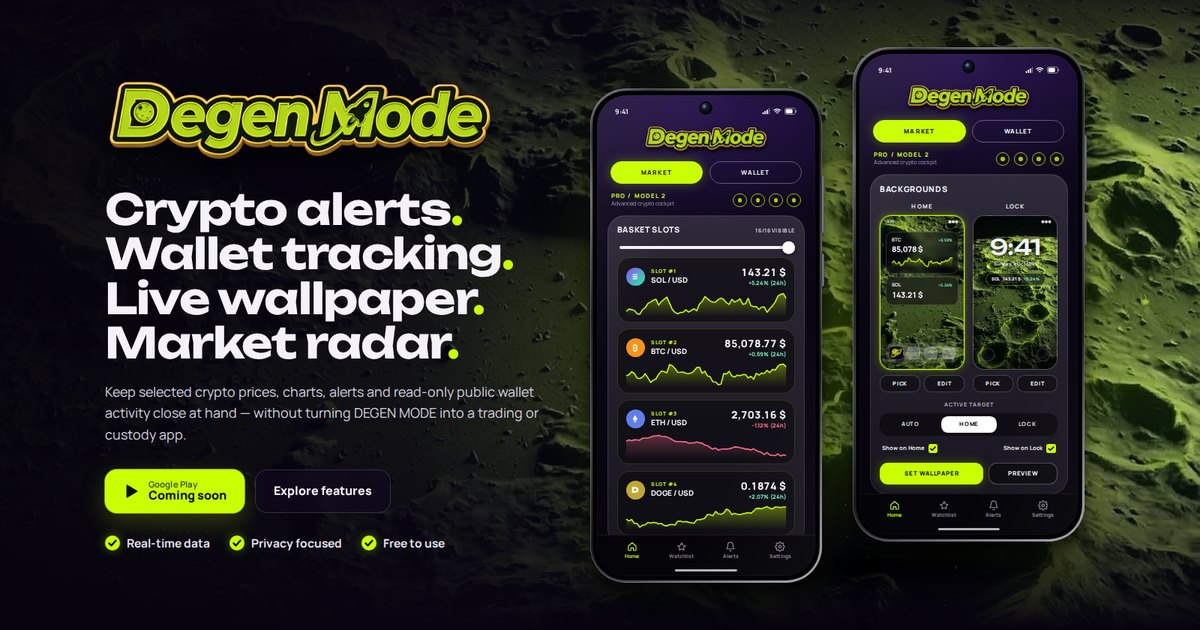
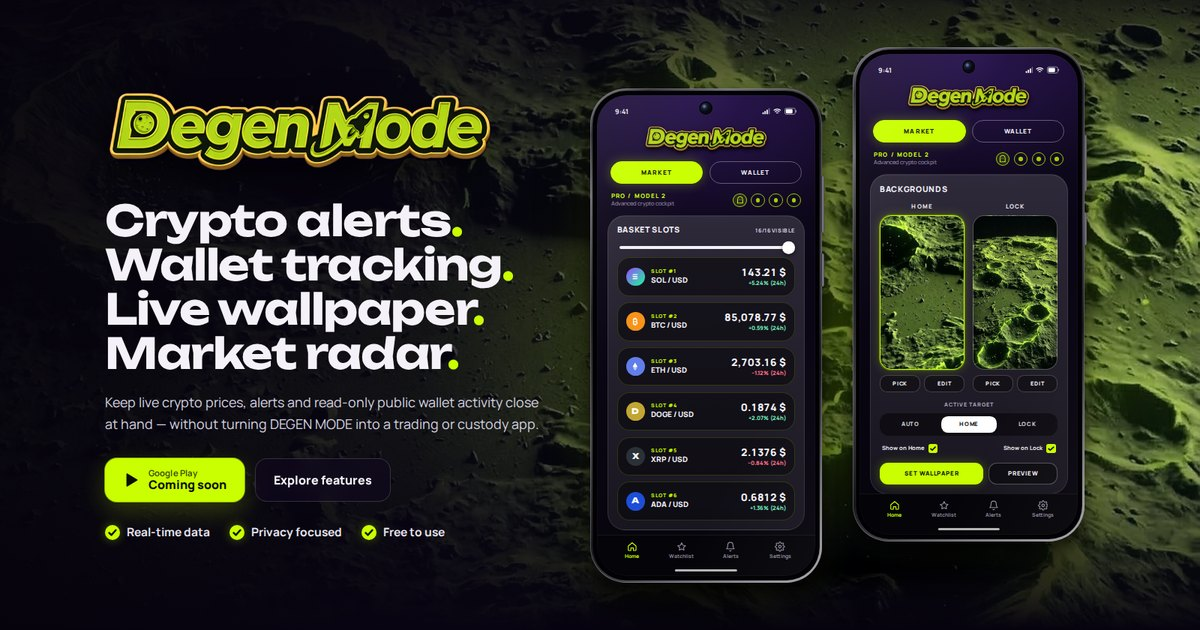
Add files via upload

diff --git a/index.html b/index.html
@@ -4,7 +4,7 @@
 <meta charset="utf-8">
 <meta name="viewport" content="width=device-width,initial-scale=1,viewport-fit=cover">
 <title>DEGEN MODE — Crypto alerts, wallet tracking and live wallpaper for Android</title>
-<meta name="description" content="DEGEN MODE puts selected crypto prices, charts, price alerts and read-only public wallet activity on your Android home and lock screen. No ads, no tracking.">
+<meta name="description" content="DEGEN MODE puts live crypto prices, price alerts and read-only public wallet activity on your Android home and lock screen. No ads, no tracking.">
 <meta name="theme-color" content="#06030d">
 <meta name="color-scheme" content="dark">
 <meta property="og:type" content="website">
@@ -24,14 +24,6 @@
 </head>
 <body>
 <a class="skip" href="#main">Skip to content</a>
-
-<!-- shared SVG gradients for charts -->
-<svg width="0" height="0" style="position:absolute" aria-hidden="true" focusable="false">
-  <defs>
-    <linearGradient id="gUp" x1="0" y1="0" x2="0" y2="1"><stop offset="0" stop-color="#c9ff00" stop-opacity=".38"/><stop offset="1" stop-color="#c9ff00" stop-opacity="0"/></linearGradient>
-    <linearGradient id="gDown" x1="0" y1="0" x2="0" y2="1"><stop offset="0" stop-color="#ff6f8e" stop-opacity=".32"/><stop offset="1" stop-color="#ff6f8e" stop-opacity="0"/></linearGradient>
-  </defs>
-</svg>
 
 <header class="site-header">
   <div class="wrap nav">
@@ -56,7 +48,7 @@
     <div class="hero-copy">
       <img class="hero-wordmark" src="degenmode-wordmark.webp" srcset="degenmode-wordmark-820.webp 820w, degenmode-wordmark.webp 1647w" sizes="(max-width:600px) 90vw, 520px" width="1647" height="375" alt="DEGEN MODE" fetchpriority="high">
       <h1 class="headline"><span>Crypto alerts<i>.</i></span><span>Wallet tracking<i>.</i></span><span>Live wallpaper<i>.</i></span><span>Market radar<i>.</i></span></h1>
-      <p class="lede">Keep selected crypto prices, charts, alerts and read-only public wallet activity close at hand — without turning DEGEN MODE into a trading or custody app.</p>
+      <p class="lede">Keep live crypto prices, alerts and read-only public wallet activity close at hand — without turning DEGEN MODE into a trading or custody app.</p>
       <div class="cta">
         <span class="btn btn-play" role="note" aria-label="Google Play — coming soon"><svg viewBox="0 0 24 24" aria-hidden="true"><path d="M5 3.6v16.8c0 .8.9 1.3 1.6.9l14-8.4c.7-.4.7-1.4 0-1.8l-14-8.4C5.9 2.3 5 2.8 5 3.6z" fill="currentColor"/></svg><span><small>Google Play</small>Coming soon</span></span>
         <a class="btn btn-ghost" href="#features">Explore features</a>
@@ -72,14 +64,14 @@
       <div class="stage">
 
         <!-- Phone A: basket slots -->
-        <div class="phone phone--a" role="img" aria-label="DEGEN MODE app showing basket slots with SOL, BTC and ETH prices and charts">
+        <div class="phone phone--a" role="img" aria-label="DEGEN MODE app showing basket slots with live SOL, BTC, ETH, DOGE, XRP and ADA prices">
           <span class="hw hw-vol"></span><span class="hw hw-pwr"></span>
           <div class="screen" aria-hidden="true">
             <div class="statusbar"><span>9:41</span><span class="cam"></span><span class="sb-icons"><svg viewBox="0 0 16 16" fill="#fff"><rect x="1" y="10" width="2.6" height="4" rx=".6"/><rect x="5" y="7.5" width="2.6" height="6.5" rx=".6"/><rect x="9" y="5" width="2.6" height="9" rx=".6"/><rect x="13" y="2" width="2.6" height="12" rx=".6" opacity=".4"/></svg><svg viewBox="0 0 16 16" fill="none" stroke="#fff" stroke-width="1.8" stroke-linecap="round"><path d="M1.5 6a9.5 9.5 0 0 1 13 0M4 8.8a6 6 0 0 1 8 0M6.5 11.5a2.4 2.4 0 0 1 3 0"/></svg><svg class="bat" viewBox="0 0 24 14"><rect x=".8" y="1" width="20" height="12" rx="3" fill="none" stroke="#fff" stroke-opacity=".55" stroke-width="1.4"/><rect x="2.6" y="2.8" width="13" height="8.4" rx="1.6" fill="#fff"/><rect x="21.6" y="4.6" width="1.8" height="4.8" rx=".9" fill="#fff" fill-opacity=".55"/></svg></span></div>
             <div class="app-top">
               <img class="app-wm" src="degenmode-wordmark-820.webp" alt="">
               <div class="seg"><span class="on">Market</span><span>Wallet</span></div>
-              <div class="pro"><div><b>PRO / MODEL 2</b><small>Advanced crypto cockpit</small></div><div class="dots"><i></i><i></i><i></i><i></i></div></div>
+              <div class="pro"><div><b>PRO / MODEL 2</b><small>Advanced crypto cockpit</small></div><div class="dots"><i class="g"><svg viewBox="0 0 24 24" fill="none" stroke="currentColor" stroke-width="2" stroke-linejoin="round"><path d="M12 2.5a7 7 0 0 0-7 7v11.3l2.3-1.6 2.4 1.6 2.3-1.6 2.3 1.6 2.4-1.6 2.3 1.6V9.5a7 7 0 0 0-7-7z"/><circle cx="9.6" cy="10.2" r="1.2" fill="currentColor" stroke="none"/><circle cx="14.4" cy="10.2" r="1.2" fill="currentColor" stroke="none"/></svg></i><i></i><i></i><i></i></div></div>
             </div>
             <div class="panel">
               <div class="panel-h"><b>Basket slots</b><small>16/16 visible</small></div>
@@ -91,7 +83,6 @@
                   <div class="slot-id"><small>Slot #1</small><b>SOL / USD</b></div>
                   <div class="slot-px"><b>143.21 $</b><small class="up">+5.24% (24h)</small></div>
                 </div>
-                <svg class="spark" viewBox="0 0 100 30" preserveAspectRatio="none"><path d="M0.0,23.8 L1.7,21.1 L3.4,21.7 L5.1,22.7 L6.8,26.5 L8.5,27.0 L10.2,21.7 L11.9,19.4 L13.6,14.4 L15.3,12.8 L16.9,10.7 L18.6,9.5 L20.3,16.5 L22.0,12.3 L23.7,9.6 L25.4,7.0 L27.1,14.1 L28.8,21.5 L30.5,25.0 L32.2,26.7 L33.9,25.0 L35.6,24.8 L37.3,22.0 L39.0,24.5 L40.7,22.7 L42.4,20.6 L44.1,23.1 L45.8,15.1 L47.5,12.2 L49.2,6.5 L50.8,8.8 L52.5,11.7 L54.2,12.9 L55.9,12.9 L57.6,9.7 L59.3,8.2 L61.0,9.8 L62.7,13.7 L64.4,15.6 L66.1,9.7 L67.8,12.9 L69.5,11.4 L71.2,9.1 L72.9,15.4 L74.6,14.8 L76.3,8.5 L78.0,17.1 L79.7,18.1 L81.4,18.2 L83.1,21.4 L84.7,18.8 L86.4,18.7 L88.1,24.8 L89.8,20.7 L91.5,17.4 L93.2,12.8 L94.9,5.9 L96.6,3.9 L98.3,3.0 L100.0,8.4 L100,30 L0,30 Z" fill="url(#gUp)"/><path d="M0.0,23.8 L1.7,21.1 L3.4,21.7 L5.1,22.7 L6.8,26.5 L8.5,27.0 L10.2,21.7 L11.9,19.4 L13.6,14.4 L15.3,12.8 L16.9,10.7 L18.6,9.5 L20.3,16.5 L22.0,12.3 L23.7,9.6 L25.4,7.0 L27.1,14.1 L28.8,21.5 L30.5,25.0 L32.2,26.7 L33.9,25.0 L35.6,24.8 L37.3,22.0 L39.0,24.5 L40.7,22.7 L42.4,20.6 L44.1,23.1 L45.8,15.1 L47.5,12.2 L49.2,6.5 L50.8,8.8 L52.5,11.7 L54.2,12.9 L55.9,12.9 L57.6,9.7 L59.3,8.2 L61.0,9.8 L62.7,13.7 L64.4,15.6 L66.1,9.7 L67.8,12.9 L69.5,11.4 L71.2,9.1 L72.9,15.4 L74.6,14.8 L76.3,8.5 L78.0,17.1 L79.7,18.1 L81.4,18.2 L83.1,21.4 L84.7,18.8 L86.4,18.7 L88.1,24.8 L89.8,20.7 L91.5,17.4 L93.2,12.8 L94.9,5.9 L96.6,3.9 L98.3,3.0 L100.0,8.4" fill="none" stroke="#c9ff00" stroke-width="1.6" stroke-linejoin="round" vector-effect="non-scaling-stroke"/></svg>
               </div>
 
               <div class="slot">
@@ -100,7 +91,6 @@
                   <div class="slot-id"><small>Slot #2</small><b>BTC / USD</b></div>
                   <div class="slot-px"><b>85,078.77 $</b><small class="up">+0.59% (24h)</small></div>
                 </div>
-                <svg class="spark" viewBox="0 0 100 30" preserveAspectRatio="none"><path d="M0.0,16.6 L1.7,15.4 L3.4,11.8 L5.1,14.0 L6.8,19.3 L8.5,19.8 L10.2,18.2 L11.9,14.3 L13.6,19.1 L15.3,24.3 L16.9,21.8 L18.6,20.3 L20.3,14.7 L22.0,11.2 L23.7,11.8 L25.4,13.1 L27.1,3.5 L28.8,4.8 L30.5,8.1 L32.2,12.7 L33.9,12.5 L35.6,12.2 L37.3,13.8 L39.0,14.2 L40.7,13.4 L42.4,11.0 L44.1,7.1 L45.8,6.5 L47.5,13.6 L49.2,11.2 L50.8,16.8 L52.5,17.7 L54.2,23.6 L55.9,23.8 L57.6,27.0 L59.3,26.4 L61.0,14.1 L62.7,14.5 L64.4,11.5 L66.1,16.8 L67.8,18.1 L69.5,15.9 L71.2,16.5 L72.9,15.3 L74.6,15.1 L76.3,19.2 L78.0,17.3 L79.7,20.6 L81.4,13.7 L83.1,15.9 L84.7,13.5 L86.4,13.7 L88.1,10.3 L89.8,12.9 L91.5,9.3 L93.2,10.0 L94.9,5.4 L96.6,3.3 L98.3,3.0 L100.0,6.2 L100,30 L0,30 Z" fill="url(#gUp)"/><path d="M0.0,16.6 L1.7,15.4 L3.4,11.8 L5.1,14.0 L6.8,19.3 L8.5,19.8 L10.2,18.2 L11.9,14.3 L13.6,19.1 L15.3,24.3 L16.9,21.8 L18.6,20.3 L20.3,14.7 L22.0,11.2 L23.7,11.8 L25.4,13.1 L27.1,3.5 L28.8,4.8 L30.5,8.1 L32.2,12.7 L33.9,12.5 L35.6,12.2 L37.3,13.8 L39.0,14.2 L40.7,13.4 L42.4,11.0 L44.1,7.1 L45.8,6.5 L47.5,13.6 L49.2,11.2 L50.8,16.8 L52.5,17.7 L54.2,23.6 L55.9,23.8 L57.6,27.0 L59.3,26.4 L61.0,14.1 L62.7,14.5 L64.4,11.5 L66.1,16.8 L67.8,18.1 L69.5,15.9 L71.2,16.5 L72.9,15.3 L74.6,15.1 L76.3,19.2 L78.0,17.3 L79.7,20.6 L81.4,13.7 L83.1,15.9 L84.7,13.5 L86.4,13.7 L88.1,10.3 L89.8,12.9 L91.5,9.3 L93.2,10.0 L94.9,5.4 L96.6,3.3 L98.3,3.0 L100.0,6.2" fill="none" stroke="#c9ff00" stroke-width="1.6" stroke-linejoin="round" vector-effect="non-scaling-stroke"/></svg>
               </div>
 
               <div class="slot">
@@ -109,7 +99,6 @@
                   <div class="slot-id"><small>Slot #3</small><b>ETH / USD</b></div>
                   <div class="slot-px"><b>2,703.16 $</b><small class="down">−1.12% (24h)</small></div>
                 </div>
-                <svg class="spark" viewBox="0 0 100 30" preserveAspectRatio="none"><path d="M0.0,9.8 L1.7,8.3 L3.4,9.3 L5.1,8.1 L6.8,8.3 L8.5,8.6 L10.2,6.3 L11.9,6.1 L13.6,6.1 L15.3,5.1 L16.9,3.8 L18.6,3.7 L20.3,3.0 L22.0,4.1 L23.7,4.4 L25.4,4.9 L27.1,6.4 L28.8,8.1 L30.5,9.9 L32.2,10.2 L33.9,10.3 L35.6,10.6 L37.3,10.5 L39.0,12.0 L40.7,12.0 L42.4,11.7 L44.1,10.7 L45.8,11.7 L47.5,12.1 L49.2,14.4 L50.8,14.9 L52.5,17.4 L54.2,19.0 L55.9,17.7 L57.6,20.2 L59.3,19.2 L61.0,18.8 L62.7,19.1 L64.4,18.5 L66.1,17.8 L67.8,16.5 L69.5,16.7 L71.2,17.4 L72.9,18.0 L74.6,19.1 L76.3,19.1 L78.0,20.0 L79.7,18.6 L81.4,20.8 L83.1,22.0 L84.7,23.0 L86.4,25.4 L88.1,23.1 L89.8,25.9 L91.5,26.2 L93.2,26.7 L94.9,24.7 L96.6,27.0 L98.3,25.7 L100.0,26.5 L100,30 L0,30 Z" fill="url(#gDown)"/><path d="M0.0,9.8 L1.7,8.3 L3.4,9.3 L5.1,8.1 L6.8,8.3 L8.5,8.6 L10.2,6.3 L11.9,6.1 L13.6,6.1 L15.3,5.1 L16.9,3.8 L18.6,3.7 L20.3,3.0 L22.0,4.1 L23.7,4.4 L25.4,4.9 L27.1,6.4 L28.8,8.1 L30.5,9.9 L32.2,10.2 L33.9,10.3 L35.6,10.6 L37.3,10.5 L39.0,12.0 L40.7,12.0 L42.4,11.7 L44.1,10.7 L45.8,11.7 L47.5,12.1 L49.2,14.4 L50.8,14.9 L52.5,17.4 L54.2,19.0 L55.9,17.7 L57.6,20.2 L59.3,19.2 L61.0,18.8 L62.7,19.1 L64.4,18.5 L66.1,17.8 L67.8,16.5 L69.5,16.7 L71.2,17.4 L72.9,18.0 L74.6,19.1 L76.3,19.1 L78.0,20.0 L79.7,18.6 L81.4,20.8 L83.1,22.0 L84.7,23.0 L86.4,25.4 L88.1,23.1 L89.8,25.9 L91.5,26.2 L93.2,26.7 L94.9,24.7 L96.6,27.0 L98.3,25.7 L100.0,26.5" fill="none" stroke="#ff6f8e" stroke-width="1.6" stroke-linejoin="round" vector-effect="non-scaling-stroke"/></svg>
               </div>
 
               <div class="slot">
@@ -118,7 +107,22 @@
                   <div class="slot-id"><small>Slot #4</small><b>DOGE / USD</b></div>
                   <div class="slot-px"><b>0.1874 $</b><small class="up">+2.07% (24h)</small></div>
                 </div>
-                <svg class="spark" viewBox="0 0 100 30" preserveAspectRatio="none"><path d="M0.0,17.5 L1.7,19.7 L3.4,18.2 L5.1,22.6 L6.8,22.7 L8.5,27.0 L10.2,24.7 L11.9,24.2 L13.6,21.4 L15.3,22.3 L16.9,21.4 L18.6,21.8 L20.3,23.1 L22.0,22.7 L23.7,25.0 L25.4,25.6 L27.1,24.1 L28.8,23.8 L30.5,24.5 L32.2,20.1 L33.9,19.9 L35.6,20.9 L37.3,20.4 L39.0,21.3 L40.7,21.9 L42.4,22.5 L44.1,18.4 L45.8,18.2 L47.5,17.8 L49.2,16.3 L50.8,12.2 L52.5,12.5 L54.2,13.6 L55.9,8.7 L57.6,11.4 L59.3,12.0 L61.0,10.5 L62.7,5.9 L64.4,7.7 L66.1,12.3 L67.8,10.9 L69.5,11.8 L71.2,12.4 L72.9,11.3 L74.6,10.8 L76.3,10.1 L78.0,10.8 L79.7,8.1 L81.4,5.1 L83.1,4.9 L84.7,5.6 L86.4,4.1 L88.1,3.0 L89.8,4.9 L91.5,5.7 L93.2,3.5 L94.9,3.5 L96.6,4.1 L98.3,3.5 L100.0,3.5 L100,30 L0,30 Z" fill="url(#gUp)"/><path d="M0.0,17.5 L1.7,19.7 L3.4,18.2 L5.1,22.6 L6.8,22.7 L8.5,27.0 L10.2,24.7 L11.9,24.2 L13.6,21.4 L15.3,22.3 L16.9,21.4 L18.6,21.8 L20.3,23.1 L22.0,22.7 L23.7,25.0 L25.4,25.6 L27.1,24.1 L28.8,23.8 L30.5,24.5 L32.2,20.1 L33.9,19.9 L35.6,20.9 L37.3,20.4 L39.0,21.3 L40.7,21.9 L42.4,22.5 L44.1,18.4 L45.8,18.2 L47.5,17.8 L49.2,16.3 L50.8,12.2 L52.5,12.5 L54.2,13.6 L55.9,8.7 L57.6,11.4 L59.3,12.0 L61.0,10.5 L62.7,5.9 L64.4,7.7 L66.1,12.3 L67.8,10.9 L69.5,11.8 L71.2,12.4 L72.9,11.3 L74.6,10.8 L76.3,10.1 L78.0,10.8 L79.7,8.1 L81.4,5.1 L83.1,4.9 L84.7,5.6 L86.4,4.1 L88.1,3.0 L89.8,4.9 L91.5,5.7 L93.2,3.5 L94.9,3.5 L96.6,4.1 L98.3,3.5 L100.0,3.5" fill="none" stroke="#c9ff00" stroke-width="1.6" stroke-linejoin="round" vector-effect="non-scaling-stroke"/></svg>
+              </div>
+
+              <div class="slot">
+                <div class="slot-top">
+                  <span class="coin coin-xrp">X</span>
+                  <div class="slot-id"><small>Slot #5</small><b>XRP / USD</b></div>
+                  <div class="slot-px"><b>2.1376 $</b><small class="down">−0.84% (24h)</small></div>
+                </div>
+              </div>
+
+              <div class="slot">
+                <div class="slot-top">
+                  <span class="coin coin-ada">A</span>
+                  <div class="slot-id"><small>Slot #6</small><b>ADA / USD</b></div>
+                  <div class="slot-px"><b>0.6812 $</b><small class="up">+1.36% (24h)</small></div>
+                </div>
               </div>
             </div>
             <div class="tabbar"><span class="on"><svg viewBox="0 0 24 24" fill="none" stroke="currentColor" stroke-width="2" stroke-linecap="round" stroke-linejoin="round"><path d="M3 10.5 12 3l9 7.5V20a1 1 0 0 1-1 1h-5v-6H9v6H4a1 1 0 0 1-1-1z"/></svg>Home</span><span><svg viewBox="0 0 24 24" fill="none" stroke="currentColor" stroke-width="2" stroke-linecap="round" stroke-linejoin="round"><path d="m12 3 2.8 5.7 6.2.9-4.5 4.4 1 6.2L12 17.3 6.5 20.2l1-6.2L3 9.6l6.2-.9z"/></svg>Watchlist</span><span><svg viewBox="0 0 24 24" fill="none" stroke="currentColor" stroke-width="2" stroke-linecap="round" stroke-linejoin="round"><path d="M6 8a6 6 0 1 1 12 0c0 7 3 9 3 9H3s3-2 3-9"/><path d="M10.3 21a1.9 1.9 0 0 0 3.4 0"/></svg>Alerts</span><span><svg viewBox="0 0 24 24" fill="none" stroke="currentColor" stroke-width="2" stroke-linecap="round" stroke-linejoin="round"><circle cx="12" cy="12" r="3"/><path d="M19.4 15a1.7 1.7 0 0 0 .3 1.8l.1.1a2 2 0 1 1-2.8 2.8l-.1-.1a1.7 1.7 0 0 0-1.8-.3 1.7 1.7 0 0 0-1 1.5V21a2 2 0 1 1-4 0v-.1a1.7 1.7 0 0 0-1.1-1.5 1.7 1.7 0 0 0-1.8.3l-.1.1a2 2 0 1 1-2.8-2.8l.1-.1a1.7 1.7 0 0 0 .3-1.8 1.7 1.7 0 0 0-1.5-1H3a2 2 0 1 1 0-4h.1a1.7 1.7 0 0 0 1.5-1.1 1.7 1.7 0 0 0-.3-1.8l-.1-.1a2 2 0 1 1 2.8-2.8l.1.1a1.7 1.7 0 0 0 1.8.3H9a1.7 1.7 0 0 0 1-1.5V3a2 2 0 1 1 4 0v.1a1.7 1.7 0 0 0 1 1.5 1.7 1.7 0 0 0 1.8-.3l.1-.1a2 2 0 1 1 2.8 2.8l-.1.1a1.7 1.7 0 0 0-.3 1.8V9a1.7 1.7 0 0 0 1.5 1H21a2 2 0 1 1 0 4h-.1a1.7 1.7 0 0 0-1.5 1z"/></svg>Settings</span></div><span class="gesture"></span>
@@ -133,37 +137,19 @@
             <div class="app-top">
               <img class="app-wm" src="degenmode-wordmark-820.webp" alt="">
               <div class="seg"><span class="on">Market</span><span>Wallet</span></div>
-              <div class="pro"><div><b>PRO / MODEL 2</b><small>Advanced crypto cockpit</small></div><div class="dots"><i></i><i></i><i></i><i></i></div></div>
+              <div class="pro"><div><b>PRO / MODEL 2</b><small>Advanced crypto cockpit</small></div><div class="dots"><i class="g"><svg viewBox="0 0 24 24" fill="none" stroke="currentColor" stroke-width="2" stroke-linejoin="round"><path d="M12 2.5a7 7 0 0 0-7 7v11.3l2.3-1.6 2.4 1.6 2.3-1.6 2.3 1.6 2.4-1.6 2.3 1.6V9.5a7 7 0 0 0-7-7z"/><circle cx="9.6" cy="10.2" r="1.2" fill="currentColor" stroke="none"/><circle cx="14.4" cy="10.2" r="1.2" fill="currentColor" stroke="none"/></svg></i><i></i><i></i><i></i></div></div>
             </div>
             <div class="panel">
               <div class="panel-h"><b>Backgrounds</b></div>
               <div class="bg-grid">
                 <figure class="bg-col">
                   <figcaption>Home</figcaption>
-                  <div class="bg-prev bg-home sel">
-                    <div class="mini-sb"><span>9:41</span><span>●●●</span></div>
-                    <div class="w-glass">
-                      <div class="row"><b>BTC</b><small class="up">+0.59%</small></div>
-                      <span class="big">85,078 $</span>
-                      <svg viewBox="0 0 100 30" preserveAspectRatio="none"><path d="M0.0,16.6 L1.7,15.4 L3.4,11.8 L5.1,14.0 L6.8,19.3 L8.5,19.8 L10.2,18.2 L11.9,14.3 L13.6,19.1 L15.3,24.3 L16.9,21.8 L18.6,20.3 L20.3,14.7 L22.0,11.2 L23.7,11.8 L25.4,13.1 L27.1,3.5 L28.8,4.8 L30.5,8.1 L32.2,12.7 L33.9,12.5 L35.6,12.2 L37.3,13.8 L39.0,14.2 L40.7,13.4 L42.4,11.0 L44.1,7.1 L45.8,6.5 L47.5,13.6 L49.2,11.2 L50.8,16.8 L52.5,17.7 L54.2,23.6 L55.9,23.8 L57.6,27.0 L59.3,26.4 L61.0,14.1 L62.7,14.5 L64.4,11.5 L66.1,16.8 L67.8,18.1 L69.5,15.9 L71.2,16.5 L72.9,15.3 L74.6,15.1 L76.3,19.2 L78.0,17.3 L79.7,20.6 L81.4,13.7 L83.1,15.9 L84.7,13.5 L86.4,13.7 L88.1,10.3 L89.8,12.9 L91.5,9.3 L93.2,10.0 L94.9,5.4 L96.6,3.3 L98.3,3.0 L100.0,6.2 L100,30 L0,30 Z" fill="url(#gUp)"/><path d="M0.0,16.6 L1.7,15.4 L3.4,11.8 L5.1,14.0 L6.8,19.3 L8.5,19.8 L10.2,18.2 L11.9,14.3 L13.6,19.1 L15.3,24.3 L16.9,21.8 L18.6,20.3 L20.3,14.7 L22.0,11.2 L23.7,11.8 L25.4,13.1 L27.1,3.5 L28.8,4.8 L30.5,8.1 L32.2,12.7 L33.9,12.5 L35.6,12.2 L37.3,13.8 L39.0,14.2 L40.7,13.4 L42.4,11.0 L44.1,7.1 L45.8,6.5 L47.5,13.6 L49.2,11.2 L50.8,16.8 L52.5,17.7 L54.2,23.6 L55.9,23.8 L57.6,27.0 L59.3,26.4 L61.0,14.1 L62.7,14.5 L64.4,11.5 L66.1,16.8 L67.8,18.1 L69.5,15.9 L71.2,16.5 L72.9,15.3 L74.6,15.1 L76.3,19.2 L78.0,17.3 L79.7,20.6 L81.4,13.7 L83.1,15.9 L84.7,13.5 L86.4,13.7 L88.1,10.3 L89.8,12.9 L91.5,9.3 L93.2,10.0 L94.9,5.4 L96.6,3.3 L98.3,3.0 L100.0,6.2" fill="none" stroke="#c9ff00" stroke-width="1.2" vector-effect="non-scaling-stroke"/></svg>
-                    </div>
-                    <div class="w-glass compact">
-                      <div class="row"><b>SOL</b><small class="up">+5.24%</small></div>
-                      <span class="big">143.21 $</span>
-                    </div>
-                    <div class="dock"><i></i><i></i><i></i><i></i></div>
-                  </div>
+                  <div class="bg-prev bg-home sel"></div>
                   <div class="pe"><span>Pick</span><span>Edit</span></div>
                 </figure>
                 <figure class="bg-col">
                   <figcaption>Lock</figcaption>
-                  <div class="bg-prev bg-lock">
-                    <div class="mini-sb"><span></span><span>●●●</span></div>
-                    <div class="lock-clock">9:41</div>
-                    <div class="lock-date">Sunday, 4 October</div>
-                    <div class="lock-chip"><span>SOL</span><span>143.21 $</span><span class="up">+5.24%</span></div>
-                    <div class="lock-foot"><i></i><i></i></div>
-                  </div>
+                  <div class="bg-prev bg-lock"></div>
                   <div class="pe"><span>Pick</span><span>Edit</span></div>
                 </figure>
               </div>
@@ -185,7 +171,7 @@
   <div class="wrap">
     <header class="sec-head">
       <h2>Made to stay visible, not get in the way.</h2>
-      <p>Live wallpaper, alerts, market data and read-only public wallet monitoring in one Android app. Coins and wallpapers on this page are demo examples.</p>
+      <p>Live wallpaper, price alerts, live prices, Ghost Mode and read-only public wallet monitoring in one Android app. Coins and wallpapers on this page are demo examples.</p>
     </header>
 
     <div class="bento">
@@ -224,31 +210,54 @@
         <h3>Live Wallpaper &amp; Watchlist</h3>
         <p>Put your watchlist on the Android home or lock screen, so prices are there the moment you pick up your phone.</p>
         <div class="f-visual">
-          <ul class="watch">
-            <li><span class="coin coin-sol"><svg viewBox="0 0 24 24"><path d="M7.6 6h11.2l-2.4 2.6H5.2zM5.2 10.7h11.2l2.4 2.6H7.6zM7.6 15.4h11.2l-2.4 2.6H5.2z" fill="#fff"/></svg></span><b>SOL</b><svg viewBox="0 0 100 30" preserveAspectRatio="none"><path d="M0.0,23.8 L1.7,21.1 L3.4,21.7 L5.1,22.7 L6.8,26.5 L8.5,27.0 L10.2,21.7 L11.9,19.4 L13.6,14.4 L15.3,12.8 L16.9,10.7 L18.6,9.5 L20.3,16.5 L22.0,12.3 L23.7,9.6 L25.4,7.0 L27.1,14.1 L28.8,21.5 L30.5,25.0 L32.2,26.7 L33.9,25.0 L35.6,24.8 L37.3,22.0 L39.0,24.5 L40.7,22.7 L42.4,20.6 L44.1,23.1 L45.8,15.1 L47.5,12.2 L49.2,6.5 L50.8,8.8 L52.5,11.7 L54.2,12.9 L55.9,12.9 L57.6,9.7 L59.3,8.2 L61.0,9.8 L62.7,13.7 L64.4,15.6 L66.1,9.7 L67.8,12.9 L69.5,11.4 L71.2,9.1 L72.9,15.4 L74.6,14.8 L76.3,8.5 L78.0,17.1 L79.7,18.1 L81.4,18.2 L83.1,21.4 L84.7,18.8 L86.4,18.7 L88.1,24.8 L89.8,20.7 L91.5,17.4 L93.2,12.8 L94.9,5.9 L96.6,3.9 L98.3,3.0 L100.0,8.4" fill="none" stroke="#c9ff00" stroke-width="1.4" vector-effect="non-scaling-stroke"/></svg><span class="px">143.21 $<small class="up">+5.24%</small></span></li>
-            <li><span class="coin coin-btc"><svg viewBox="0 0 24 24" fill="none" stroke="#fff" stroke-width="2.4" stroke-linecap="round" stroke-linejoin="round"><path d="M8 6h5.2a3 3 0 0 1 0 6H8zM8 12h6a3 3 0 0 1 0 6H8zM8 6v12M10.5 3.8V6M13.5 3.8V6M10.5 18v2.2M13.5 18v2.2"/></svg></span><b>BTC</b><svg viewBox="0 0 100 30" preserveAspectRatio="none"><path d="M0.0,16.6 L1.7,15.4 L3.4,11.8 L5.1,14.0 L6.8,19.3 L8.5,19.8 L10.2,18.2 L11.9,14.3 L13.6,19.1 L15.3,24.3 L16.9,21.8 L18.6,20.3 L20.3,14.7 L22.0,11.2 L23.7,11.8 L25.4,13.1 L27.1,3.5 L28.8,4.8 L30.5,8.1 L32.2,12.7 L33.9,12.5 L35.6,12.2 L37.3,13.8 L39.0,14.2 L40.7,13.4 L42.4,11.0 L44.1,7.1 L45.8,6.5 L47.5,13.6 L49.2,11.2 L50.8,16.8 L52.5,17.7 L54.2,23.6 L55.9,23.8 L57.6,27.0 L59.3,26.4 L61.0,14.1 L62.7,14.5 L64.4,11.5 L66.1,16.8 L67.8,18.1 L69.5,15.9 L71.2,16.5 L72.9,15.3 L74.6,15.1 L76.3,19.2 L78.0,17.3 L79.7,20.6 L81.4,13.7 L83.1,15.9 L84.7,13.5 L86.4,13.7 L88.1,10.3 L89.8,12.9 L91.5,9.3 L93.2,10.0 L94.9,5.4 L96.6,3.3 L98.3,3.0 L100.0,6.2" fill="none" stroke="#c9ff00" stroke-width="1.4" vector-effect="non-scaling-stroke"/></svg><span class="px">85,078.77 $<small class="up">+0.59%</small></span></li>
-            <li><span class="coin coin-eth"><svg viewBox="0 0 24 24"><path d="M12 2.8l5.6 9.3L12 15.4l-5.6-3.3z" fill="#fff"/><path d="M6.4 13.3 12 21.2l5.6-7.9L12 16.6z" fill="#fff" opacity=".8"/></svg></span><b>ETH</b><svg viewBox="0 0 100 30" preserveAspectRatio="none"><path d="M0.0,9.8 L1.7,8.3 L3.4,9.3 L5.1,8.1 L6.8,8.3 L8.5,8.6 L10.2,6.3 L11.9,6.1 L13.6,6.1 L15.3,5.1 L16.9,3.8 L18.6,3.7 L20.3,3.0 L22.0,4.1 L23.7,4.4 L25.4,4.9 L27.1,6.4 L28.8,8.1 L30.5,9.9 L32.2,10.2 L33.9,10.3 L35.6,10.6 L37.3,10.5 L39.0,12.0 L40.7,12.0 L42.4,11.7 L44.1,10.7 L45.8,11.7 L47.5,12.1 L49.2,14.4 L50.8,14.9 L52.5,17.4 L54.2,19.0 L55.9,17.7 L57.6,20.2 L59.3,19.2 L61.0,18.8 L62.7,19.1 L64.4,18.5 L66.1,17.8 L67.8,16.5 L69.5,16.7 L71.2,17.4 L72.9,18.0 L74.6,19.1 L76.3,19.1 L78.0,20.0 L79.7,18.6 L81.4,20.8 L83.1,22.0 L84.7,23.0 L86.4,25.4 L88.1,23.1 L89.8,25.9 L91.5,26.2 L93.2,26.7 L94.9,24.7 L96.6,27.0 L98.3,25.7 L100.0,26.5" fill="none" stroke="#ff6f8e" stroke-width="1.4" vector-effect="non-scaling-stroke"/></svg><span class="px">2,703.16 $<small class="down">−1.12%</small></span></li>
-          </ul>
+          <div class="wall-demo" aria-hidden="true">
+            <div class="wall-screen">
+              <div class="wall-clock">9:41</div>
+              <div class="wall-date">Sunday, 4 October</div>
+              <div class="wall-list">
+                <div><b>SOL</b><span>143.21 $</span><small class="up">+5.24%</small></div>
+                <div><b>BTC</b><span>85,078.77 $</span><small class="up">+0.59%</small></div>
+                <div><b>ETH</b><span>2,703.16 $</span><small class="down">−1.12%</small></div>
+              </div>
+            </div>
+          </div>
         </div>
       </article>
 
-      <article class="f f-charts">
-        <div class="f-ico"><svg viewBox="0 0 24 24" fill="none" stroke="currentColor" stroke-width="2" stroke-linecap="round" stroke-linejoin="round"><path d="M3 3v18h18"/><path d="M7 15l4-5 3 3 5-7"/></svg></div>
-        <h3>Live Charts</h3>
-        <p>Prices and charts for the coins you choose, pulled from several market-data providers and exchange streams.</p>
+      <article class="f f-prices">
+        <div class="f-ico"><svg viewBox="0 0 24 24" fill="none" stroke="currentColor" stroke-width="2" stroke-linecap="round" stroke-linejoin="round"><path d="M13 2 4.5 13.5H12L11 22l8.5-11.5H12z"/></svg></div>
+        <h3>Live Prices</h3>
+        <p>Prices for the coins you choose update on their own, streamed from exchanges and market-data providers. No pull-to-refresh needed.</p>
         <div class="f-visual">
-          <div class="chart-card">
-            <div class="chart-top">
-              <div><b>SOL / USD</b><div class="px">143.21 $ <small class="up" style="font-family:var(--body);font-size:.9rem">+5.24%</small></div></div>
-              <div class="tf" aria-hidden="true"><span>1H</span><span class="on">4H</span><span>1D</span><span>1W</span></div>
-            </div>
-            <svg class="chart-svg" viewBox="0 0 100 30" preserveAspectRatio="none" aria-hidden="true">
-              <path d="M0,7.5 H100" stroke="#f2c14e" stroke-width="1" stroke-dasharray="4 4" vector-effect="non-scaling-stroke" opacity=".8"/>
-              <path d="M0.0,26.7 L1.1,24.2 L2.2,25.5 L3.4,27.0 L4.5,26.2 L5.6,22.9 L6.7,22.0 L7.9,24.0 L9.0,25.3 L10.1,25.2 L11.2,23.3 L12.4,23.2 L13.5,23.7 L14.6,24.0 L15.7,23.5 L16.9,24.7 L18.0,24.6 L19.1,23.9 L20.2,20.8 L21.3,20.7 L22.5,18.8 L23.6,20.5 L24.7,18.8 L25.8,18.4 L27.0,19.2 L28.1,19.1 L29.2,17.3 L30.3,17.7 L31.5,15.7 L32.6,12.7 L33.7,9.6 L34.8,6.5 L36.0,8.7 L37.1,7.9 L38.2,9.0 L39.3,7.1 L40.4,6.8 L41.6,6.2 L42.7,5.2 L43.8,6.2 L44.9,5.8 L46.1,7.0 L47.2,3.0 L48.3,3.7 L49.4,3.5 L50.6,6.6 L51.7,9.1 L52.8,10.5 L53.9,8.9 L55.1,7.3 L56.2,6.6 L57.3,7.6 L58.4,4.1 L59.6,5.8 L60.7,7.2 L61.8,6.2 L62.9,7.8 L64.0,7.2 L65.2,5.2 L66.3,5.2 L67.4,4.3 L68.5,4.1 L69.7,5.1 L70.8,10.8 L71.9,12.9 L73.0,12.7 L74.2,15.6 L75.3,16.5 L76.4,15.9 L77.5,13.3 L78.7,15.7 L79.8,16.5 L80.9,15.9 L82.0,14.8 L83.1,17.2 L84.3,13.6 L85.4,14.9 L86.5,12.8 L87.6,13.0 L88.8,12.1 L89.9,8.8 L91.0,7.3 L92.1,6.9 L93.3,8.6 L94.4,9.7 L95.5,12.2 L96.6,8.3 L97.8,11.0 L98.9,15.6 L100.0,12.4 L100,30 L0,30 Z" fill="url(#gUp)"/>
-              <path d="M0.0,26.7 L1.1,24.2 L2.2,25.5 L3.4,27.0 L4.5,26.2 L5.6,22.9 L6.7,22.0 L7.9,24.0 L9.0,25.3 L10.1,25.2 L11.2,23.3 L12.4,23.2 L13.5,23.7 L14.6,24.0 L15.7,23.5 L16.9,24.7 L18.0,24.6 L19.1,23.9 L20.2,20.8 L21.3,20.7 L22.5,18.8 L23.6,20.5 L24.7,18.8 L25.8,18.4 L27.0,19.2 L28.1,19.1 L29.2,17.3 L30.3,17.7 L31.5,15.7 L32.6,12.7 L33.7,9.6 L34.8,6.5 L36.0,8.7 L37.1,7.9 L38.2,9.0 L39.3,7.1 L40.4,6.8 L41.6,6.2 L42.7,5.2 L43.8,6.2 L44.9,5.8 L46.1,7.0 L47.2,3.0 L48.3,3.7 L49.4,3.5 L50.6,6.6 L51.7,9.1 L52.8,10.5 L53.9,8.9 L55.1,7.3 L56.2,6.6 L57.3,7.6 L58.4,4.1 L59.6,5.8 L60.7,7.2 L61.8,6.2 L62.9,7.8 L64.0,7.2 L65.2,5.2 L66.3,5.2 L67.4,4.3 L68.5,4.1 L69.7,5.1 L70.8,10.8 L71.9,12.9 L73.0,12.7 L74.2,15.6 L75.3,16.5 L76.4,15.9 L77.5,13.3 L78.7,15.7 L79.8,16.5 L80.9,15.9 L82.0,14.8 L83.1,17.2 L84.3,13.6 L85.4,14.9 L86.5,12.8 L87.6,13.0 L88.8,12.1 L89.9,8.8 L91.0,7.3 L92.1,6.9 L93.3,8.6 L94.4,9.7 L95.5,12.2 L96.6,8.3 L97.8,11.0 L98.9,15.6 L100.0,12.4" fill="none" stroke="#c9ff00" stroke-width="2" stroke-linejoin="round" vector-effect="non-scaling-stroke"/>
-            </svg>
+          <ul class="watch">
+            <li><span class="coin coin-sol"><svg viewBox="0 0 24 24"><path d="M7.6 6h11.2l-2.4 2.6H5.2zM5.2 10.7h11.2l2.4 2.6H7.6zM7.6 15.4h11.2l-2.4 2.6H5.2z" fill="#fff"/></svg></span><b>SOL / USD</b><span class="live">Live</span><span class="px">143.21 $<small class="up">+5.24%</small></span></li>
+            <li><span class="coin coin-btc"><svg viewBox="0 0 24 24" fill="none" stroke="#fff" stroke-width="2.4" stroke-linecap="round" stroke-linejoin="round"><path d="M8 6h5.2a3 3 0 0 1 0 6H8zM8 12h6a3 3 0 0 1 0 6H8zM8 6v12M10.5 3.8V6M13.5 3.8V6M10.5 18v2.2M13.5 18v2.2"/></svg></span><b>BTC / USD</b><span class="live">Live</span><span class="px">85,078.77 $<small class="up">+0.59%</small></span></li>
+            <li><span class="coin coin-eth"><svg viewBox="0 0 24 24"><path d="M12 2.8l5.6 9.3L12 15.4l-5.6-3.3z" fill="#fff"/><path d="M6.4 13.3 12 21.2l5.6-7.9L12 16.6z" fill="#fff" opacity=".8"/></svg></span><b>ETH / USD</b><span class="live">Live</span><span class="px">2,703.16 $<small class="down">−1.12%</small></span></li>
+            <li><span class="coin coin-doge">D</span><b>DOGE / USD</b><span class="live">Live</span><span class="px">0.1874 $<small class="up">+2.07%</small></span></li>
+          </ul>
+          <p class="providers">Sources include DexScreener, CoinGecko, CoinPaprika, Binance, Coinbase, Kraken, OKX and others.</p>
+        </div>
+      </article>
+
+      <article class="f f-ghost">
+        <div class="ghost-copy">
+          <div class="f-ico"><svg viewBox="0 0 24 24" fill="none" stroke="currentColor" stroke-width="2" stroke-linejoin="round"><path d="M12 2.5a7 7 0 0 0-7 7v11.3l2.3-1.6 2.4 1.6 2.3-1.6 2.3 1.6 2.4-1.6 2.3 1.6V9.5a7 7 0 0 0-7-7z"/><circle cx="9.6" cy="10.2" r="1.2" fill="currentColor" stroke="none"/><circle cx="14.4" cy="10.2" r="1.2" fill="currentColor" stroke="none"/></svg></div>
+          <h3>Ghost Mode</h3>
+          <p>Someone looking over your shoulder? Tap the ghost icon and every price on screen disappears in an instant. Turn it off and your numbers are back.</p>
+        </div>
+        <div class="ghost-demo" aria-hidden="true">
+          <div class="ghost-panel">
+            <div class="ghost-head"><span>Ghost Mode off</span><i class="ghost-btn"><svg viewBox="0 0 24 24" fill="none" stroke="currentColor" stroke-width="2" stroke-linejoin="round"><path d="M12 2.5a7 7 0 0 0-7 7v11.3l2.3-1.6 2.4 1.6 2.3-1.6 2.3 1.6 2.4-1.6 2.3 1.6V9.5a7 7 0 0 0-7-7z"/><circle cx="9.6" cy="10.2" r="1.2" fill="currentColor" stroke="none"/><circle cx="14.4" cy="10.2" r="1.2" fill="currentColor" stroke="none"/></svg></i></div>
+            <div class="ghost-row"><b>SOL</b><span>143.21 $</span></div>
+            <div class="ghost-row"><b>BTC</b><span>85,078.77 $</span></div>
+            <div class="ghost-row"><b>Wallet</b><span>12,480.50 $</span></div>
           </div>
-          <p class="providers">Sources include DexScreener, CoinGecko, CoinPaprika, Binance, Coinbase, Kraken, OKX and others. The dashed line marks a price alert.</p>
+          <div class="ghost-panel is-on">
+            <div class="ghost-head"><span>Ghost Mode on</span><i class="ghost-btn"><svg viewBox="0 0 24 24" fill="none" stroke="currentColor" stroke-width="2" stroke-linejoin="round"><path d="M12 2.5a7 7 0 0 0-7 7v11.3l2.3-1.6 2.4 1.6 2.3-1.6 2.3 1.6 2.4-1.6 2.3 1.6V9.5a7 7 0 0 0-7-7z"/><circle cx="9.6" cy="10.2" r="1.2" fill="currentColor" stroke="none"/><circle cx="14.4" cy="10.2" r="1.2" fill="currentColor" stroke="none"/></svg></i></div>
+            <div class="ghost-row"><b>SOL</b><span class="masked">••••••</span></div>
+            <div class="ghost-row"><b>BTC</b><span class="masked">••••••••</span></div>
+            <div class="ghost-row"><b>Wallet</b><span class="masked">••••••••</span></div>
+          </div>
         </div>
       </article>
     </div>

diff --git a/styles.css b/styles.css
@@ -114,6 +114,9 @@ a{color:inherit}
 .pro small{color:#a39db2;font-size:1.1cqi}
 .pro .dots{display:flex;gap:.8cqi}
 .pro .dots i{width:2.7cqi;height:2.7cqi;border-radius:50%;border:.16cqi solid rgba(201,255,0,.75);display:grid;place-items:center}
+.pro .dots i.g{color:var(--lime);background:rgba(201,255,0,.12)}
+.pro .dots i.g svg{width:1.7cqi;height:1.7cqi}
+.pro .dots i.g::after{display:none}
 .pro .dots i::after{content:"";width:.8cqi;height:.8cqi;border-radius:50%;background:rgba(201,255,0,.8)}
 
 .panel{margin:0 2cqi;padding:1.8cqi;border-radius:3.4cqi;border:.12cqi solid rgba(255,255,255,.11);background:linear-gradient(180deg,rgba(74,70,84,.55) 0%,rgba(36,33,44,.6) 100%);box-shadow:inset 0 .12cqi 0 rgba(255,255,255,.08)}
@@ -123,14 +126,17 @@ a{color:inherit}
 .slider{position:relative;height:.6cqi;margin:2cqi .4cqi 1.6cqi;border-radius:1cqi;background:#f2f1f5}
 .slider i{position:absolute;right:-.4cqi;top:50%;width:2.4cqi;height:2.4cqi;border-radius:50%;background:#fff;transform:translateY(-50%);box-shadow:0 .3cqi .8cqi rgba(0,0,0,.5)}
 
-.slot{padding:1.5cqi 1.6cqi 1cqi;margin-top:1.2cqi;border-radius:2.4cqi;background:rgba(9,8,13,.62);border:.12cqi solid rgba(201,255,0,.16)}
+.slot{padding:1.5cqi 1.6cqi;margin-top:1.2cqi;border-radius:2.4cqi;background:rgba(9,8,13,.62);border:.12cqi solid rgba(201,255,0,.16)}
 .slot-top{display:grid;grid-template-columns:auto 1fr auto;align-items:center;gap:1.2cqi}
 .coin{width:3.6cqi;height:3.6cqi;border-radius:50%;display:grid;place-items:center;font-weight:800;font-size:1.6cqi;color:#fff}
 .coin svg{width:55%;height:55%}
 .coin-sol{background:linear-gradient(135deg,#9945ff,#19fb9b)}
 .coin-btc{background:#f7931a}
 .coin-eth{background:#627eea}
-.coin-doge{background:#c2a633;font-family:var(--display);font-size:1.5cqi}
+.coin-doge,.coin-xrp,.coin-ada{font-family:var(--display);font-size:1.5cqi}
+.coin-doge{background:#c2a633}
+.coin-xrp{background:#2b3138}
+.coin-ada{background:#1d4ed8}
 .slot-id small{display:block;color:var(--lime);font-size:1cqi;font-weight:800;letter-spacing:.12em;text-transform:uppercase}
 .slot-id b{font-size:1.45cqi;font-weight:800}
 .slot-px{text-align:right}
@@ -152,8 +158,8 @@ a{color:inherit}
 .bg-col figcaption{text-align:center;font-size:1.15cqi;font-weight:800;letter-spacing:.14em;text-transform:uppercase;color:#e3e0ea;margin-bottom:.9cqi}
 .bg-prev{position:relative;aspect-ratio:9/16.4;border-radius:2.2cqi;overflow:hidden;border:.2cqi solid rgba(255,255,255,.3);background-color:#0b0a10;background-size:cover;box-shadow:inset 0 0 2cqi rgba(0,0,0,.4)}
 .bg-prev.sel{border-color:var(--lime);box-shadow:0 0 0 .2cqi rgba(201,255,0,.25),0 0 2cqi rgba(201,255,0,.25)}
-.bg-home{background-image:linear-gradient(180deg,rgba(0,0,0,.35),rgba(0,0,0,0) 30%,rgba(0,0,0,.45)),url("moon-wide-960.webp");background-position:center,32% 50%}
-.bg-lock{background-image:linear-gradient(180deg,rgba(0,0,0,.15),rgba(0,0,0,0) 40%,rgba(0,0,0,.55)),url("moon-portrait-480.webp");background-position:center,50% 18%}
+.bg-home{background-image:url("moon-wide-960.webp");background-position:32% 50%}
+.bg-lock{background-image:url("moon-portrait-480.webp");background-position:50% 0}
 .mini-sb{display:flex;justify-content:space-between;padding:.8cqi 1.1cqi 0;font-size:.75cqi;font-weight:700;opacity:.9}
 .w-glass{margin:1.3cqi 1cqi 0;padding:.9cqi 1cqi;border-radius:1.3cqi;background:rgba(10,8,18,.55);border:.1cqi solid rgba(255,255,255,.16);-webkit-backdrop-filter:blur(4px);backdrop-filter:blur(4px)}
 .w-glass .row{display:flex;justify-content:space-between;align-items:baseline}
@@ -198,7 +204,8 @@ h2{font-family:var(--display);font-weight:600;font-size:clamp(1.8rem,3.1vw,2.9re
 .f-alerts{grid-column:span 7}
 .f-radar{grid-column:span 5}
 .f-wall{grid-column:span 5}
-.f-charts{grid-column:span 7}
+.f-prices{grid-column:span 7}
+.f-ghost{grid-column:span 12;display:grid;grid-template-columns:minmax(0,5fr) minmax(0,7fr);gap:32px;align-items:center}
 .f-ico{width:48px;height:48px;border-radius:14px;display:grid;place-items:center;color:var(--lime);background:rgba(201,255,0,.07);border:1px solid rgba(242,193,78,.45);box-shadow:inset 0 0 0 1px rgba(201,255,0,.12),0 0 18px rgba(201,255,0,.08)}
 .f-ico svg{width:24px;height:24px}
 .f h3{font-family:var(--display);font-weight:600;font-size:1.3rem;letter-spacing:-.01em;margin:20px 0 8px}
@@ -229,23 +236,38 @@ h2{font-family:var(--display);font-weight:600;font-size:clamp(1.8rem,3.1vw,2.9re
 
 /* watchlist visual */
 .watch{list-style:none;margin:0;padding:0;border-radius:18px;border:1px solid var(--line);overflow:hidden;background:rgba(8,5,16,.6)}
-.watch li{display:grid;grid-template-columns:28px 1fr 64px auto;gap:12px;align-items:center;padding:11px 14px;font-size:.92rem}
+.watch li{display:grid;grid-template-columns:28px auto 1fr auto;gap:12px;align-items:center;padding:11px 14px;font-size:.92rem}
 .watch li+li{border-top:1px solid var(--line)}
 .watch .coin{width:28px;height:28px;font-size:.8rem}
 .watch b{font-weight:800}
-.watch svg{width:64px;height:22px}
+.watch .live{display:inline-flex;align-items:center;gap:6px;font-size:.74rem;font-weight:800;color:var(--lime)}
+.watch .live::before{content:"";width:7px;height:7px;border-radius:50%;background:var(--lime);box-shadow:0 0 8px var(--lime)}
+.watch .px{min-width:7.5em}
+/* wallpaper visual */
+.wall-demo{display:flex;justify-content:center}
+.wall-screen{width:min(240px,100%);aspect-ratio:9/12;border-radius:26px;padding:22px 14px 14px;border:6px solid #1a1720;outline:1px solid rgba(255,255,255,.18);background:linear-gradient(180deg,rgba(0,0,0,.25),rgba(0,0,0,0) 40%,rgba(0,0,0,.55)),url("moon-portrait-480.webp") 50% 0/cover;box-shadow:0 18px 40px rgba(0,0,0,.45)}
+.wall-clock{text-align:center;font-family:var(--display);font-weight:500;font-size:2.6rem;line-height:1;text-shadow:0 2px 10px rgba(0,0,0,.6)}
+.wall-date{text-align:center;font-size:.78rem;font-weight:700;margin-top:6px}
+.wall-list{display:grid;gap:6px;margin-top:16px}
+.wall-list div{display:grid;grid-template-columns:auto 1fr auto;gap:8px;align-items:baseline;padding:7px 10px;border-radius:12px;background:rgba(8,6,16,.6);border:1px solid rgba(255,255,255,.14);font-size:.78rem}
+.wall-list span{text-align:right;font-weight:800;font-variant-numeric:tabular-nums}
+.wall-list small{font-weight:800;font-size:.7rem}
+/* ghost visual */
+.ghost-demo{display:grid;grid-template-columns:1fr 1fr;gap:14px}
+.ghost-panel{padding:14px;border-radius:20px;border:1px solid var(--line-2);background:rgba(8,5,16,.7)}
+.ghost-panel.is-on{border-color:rgba(201,255,0,.4);box-shadow:0 0 0 1px rgba(201,255,0,.12),0 0 30px rgba(201,255,0,.08)}
+.ghost-head{display:flex;justify-content:space-between;align-items:center;margin-bottom:8px;font-size:.84rem;font-weight:800;color:var(--muted)}
+.is-on .ghost-head{color:var(--lime)}
+.ghost-btn{display:grid;place-items:center;width:36px;height:36px;border-radius:50%;border:1.5px solid rgba(255,255,255,.3);color:#d9d5e3}
+.ghost-btn svg{width:20px;height:20px}
+.is-on .ghost-btn{background:var(--lime);border-color:var(--lime);color:#0b0f00;box-shadow:0 0 18px rgba(201,255,0,.45)}
+.ghost-row{display:flex;justify-content:space-between;padding:9px 4px;font-size:.92rem}
+.ghost-row+.ghost-row{border-top:1px solid var(--line)}
+.ghost-row span{font-weight:800;font-variant-numeric:tabular-nums}
+.ghost-row .masked{color:var(--faint);letter-spacing:.12em}
 .watch .px{text-align:right;font-weight:800;font-variant-numeric:tabular-nums}
 .watch .px small{display:block;font-size:.76rem}
 
-/* charts visual */
-.chart-card{border-radius:20px;border:1px solid var(--line);background:rgba(8,5,16,.6);padding:18px 18px 12px}
-.chart-top{display:flex;justify-content:space-between;align-items:flex-start;gap:16px;flex-wrap:wrap}
-.chart-top b{font-size:1rem}
-.chart-top .px{font-family:var(--display);font-weight:600;font-size:1.6rem;letter-spacing:-.02em;font-variant-numeric:tabular-nums}
-.tf{display:flex;gap:4px;padding:4px;border-radius:12px;background:rgba(255,255,255,.05)}
-.tf span{padding:5px 10px;border-radius:9px;font-size:.8rem;font-weight:800;color:var(--muted)}
-.tf .on{background:var(--lime);color:#0b0f00}
-.chart-svg{width:100%;height:150px;margin-top:10px;overflow:visible}
 .providers{margin:16px 0 0;font-size:.86rem;color:var(--faint)}
 
 /* privacy band */
@@ -311,7 +333,8 @@ h2{font-family:var(--display);font-weight:600;font-size:clamp(1.8rem,3.1vw,2.9re
     radial-gradient(70% 40% at 55% 78%,rgba(201,255,0,.14),rgba(201,255,0,0) 70%),
     linear-gradient(180deg,rgba(6,3,13,.72) 0%,rgba(8,4,18,.78) 40%,rgba(8,4,18,.45) 70%,var(--void) 100%)}
   .sec-head{grid-template-columns:1fr}
-  .f-alerts,.f-radar,.f-wall,.f-charts{grid-column:span 12}
+  .f-alerts,.f-radar,.f-wall,.f-prices,.f-ghost{grid-column:span 12}
+  .f-ghost{grid-template-columns:1fr}
   .privacy-grid{grid-template-columns:1fr}
   .policy-layout{grid-template-columns:1fr}
   .toc{position:static;max-height:none}
@@ -345,7 +368,8 @@ h2{font-family:var(--display);font-weight:600;font-size:clamp(1.8rem,3.1vw,2.9re
   .note:nth-child(2){margin-inline:8px}
   .note:nth-child(3){margin-inline:16px}
   .watch li{grid-template-columns:28px 1fr auto}
-  .watch svg{display:none}
+  .watch .live{display:none}
+  .ghost-demo{grid-template-columns:1fr}
   .hero-visual{width:calc(100% + 2*var(--gutter) - 8px);margin-inline:calc(4px - var(--gutter))}
 }
 @media (prefers-reduced-motion:reduce){

diff --git a/privacy.html b/privacy.html
@@ -54,7 +54,7 @@
     <section class="policy-card" id="section-1"><div class="policy-num">1</div><div><h2>Overview</h2><div>This Privacy Policy explains how the DEGEN MODE Android application ("DEGEN MODE", "the app", "we", "us") handles information when you use the app. DEGEN MODE is a crypto market-data, alert and read-only public blockchain monitoring application. The app does not provide a custodial wallet, transaction signing, cryptocurrency transfers, trading execution, purchases, sales, swaps or investment advice.</div></div></section>
 <section class="policy-card" id="section-2"><div class="policy-num">2</div><div><h2>Information stored on your device</h2><div><p>Depending on the features you use, DEGEN MODE may store locally on your device:</p><ul><li>tracked coins, token identifiers, contract addresses, display order and cached market data;</li><li>price-alert thresholds, custom alert text, notification state and duplicate-alert prevention state;</li><li>Night Guard, Ninja Radar, Data Inspector and refresh settings;</li><li>public blockchain addresses, optional labels, public holdings/activity snapshots and related display data;</li><li>optional user-provided API credentials for CoinGecko, Helius and Alchemy;</li><li>selected wallpaper/background images, imported sounds, downloaded fonts and other app preferences;</li><li>local diagnostic information used to operate and troubleshoot the app.</li></ul><p>These items are stored inside the Android application sandbox unless you explicitly export or share them. DEGEN MODE does not currently implement an app-level encrypted credential vault. API-key fields are visually masked in the interface and the known credential-bearing stores are excluded from Android automatic backup/device transfer.</p></div></div></section>
 <section class="policy-card" id="section-3"><div class="policy-num">3</div><div><h2>API credentials</h2><div>CoinGecko, Helius and Alchemy API credentials are optional. If you enter a credential, it is used only for requests to the corresponding provider. DEGEN MODE does not intentionally send one provider's credential to another provider. Credential values are excluded from DEGEN MODE's manual backup export. Because credentials are stored locally as part of app configuration and are accessible to the app's own WebView code, use credentials with the minimum privileges and quotas necessary for DEGEN MODE.</div></div></section>
-<section class="policy-card" id="section-4"><div class="policy-num">4</div><div><h2>Market-data requests</h2><div>To provide prices, charts, token discovery and related information, DEGEN MODE may contact third-party services such as DexScreener, CoinGecko, CoinPaprika, Binance, OKX, Coinbase, Bybit, Gate.io, Kraken, KuCoin and MEXC. Requests may include public trading symbols, coin/token identifiers, contract addresses, search terms, quote currencies, chart parameters or stream subscriptions. The provider also receives normal network information such as your public IP address and connection metadata as part of an internet request.</div></div></section>
+<section class="policy-card" id="section-4"><div class="policy-num">4</div><div><h2>Market-data requests</h2><div>To provide live prices, price changes, token discovery and related information, DEGEN MODE may contact third-party services such as DexScreener, CoinGecko, CoinPaprika, Binance, OKX, Coinbase, Bybit, Gate.io, Kraken, KuCoin and MEXC. Requests may include public trading symbols, coin/token identifiers, contract addresses, search terms, quote currencies or live price-stream subscriptions. The provider also receives normal network information such as your public IP address and connection metadata as part of an internet request.</div></div></section>
 <section class="policy-card" id="section-5"><div class="policy-num">5</div><div><h2>Read-only public wallet monitoring</h2><div>If you use wallet monitoring or Ninja Radar, DEGEN MODE may send a public blockchain address and related public identifiers to services such as public Solana RPC endpoints, Helius, Alchemy and Blockscout to retrieve public balances, token holdings, transaction signatures, transfers or other public blockchain activity. <strong>DEGEN MODE does not request or store seed phrases, private keys, wallet passwords or wallet-signing permissions.</strong> The app does not sign or submit blockchain transactions on your behalf.</div></div></section>
 <section class="policy-card" id="section-6"><div class="policy-num">6</div><div><h2>Search information</h2><div>When you use an online token/coin search feature, the search term may be sent to the relevant market-data provider to return matching results.</div></div></section>
 <section class="policy-card" id="section-7"><div class="policy-num">7</div><div><h2>Audio, notifications and text-to-speech</h2><div>DEGEN MODE can use Android notifications, sounds and text-to-speech (TTS) for alerts. TTS text is passed to the TTS engine selected on your Android device. Depending on the TTS provider and device configuration, that engine may process speech locally or use its own network service. Its processing is governed by the provider's own terms and privacy policy. DEGEN MODE does not directly record microphone audio. If you choose the record-sound option, the app launches a compatible external Android audio-recorder application, which is responsible for its own microphone permission and privacy practices.</div></div></section>
